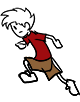
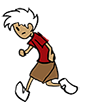
Jumping Player 90% completo

Changed region(s): [[0.0, 0.0588, 1.0, 1.0]]

diff --git a/WASH/src/com/brackeen/javagamebook/tilegame/ResourceManager.java b/WASH/src/com/brackeen/javagamebook/tilegame/ResourceManager.java
@@ -300,12 +300,20 @@ public class ResourceManager {
             loadImage("player6.png"),
             loadImage("player7.png"),
             loadImage("player8.png"),
+            loadImage("player9.png"),
+            loadImage("player10.png"),            
             loadImage("fly1.png"),
             loadImage("fly2.png"),
             loadImage("fly3.png"),
             loadImage("grub1.png"),
             loadImage("grub2.png"),
-            loadImage("player.png")
+            loadImage("player.png"),
+            loadImage("salto1.png"),
+            loadImage("salto2.png"),
+            loadImage("salto3.png"),
+            loadImage("salto4.png"),
+            loadImage("salto5.png"),
+            loadImage("salto6.png"),
         };
 
         images[1] = new Image[images[0].length];
@@ -321,33 +329,39 @@ public class ResourceManager {
         }
 
         // create creature animations
-        Animation[] playerAnim = new Animation[6];
-        Animation[] flyAnim = new Animation[6];
-        Animation[] grubAnim = new Animation[6];
+        Animation[] playerAnim = new Animation[8];
+        Animation[] flyAnim = new Animation[8];
+        Animation[] grubAnim = new Animation[8];
         for (int i=0; i<4; i++) {
            playerAnim[i] = createPlayerAnim(
                 images[i][0], images[i][1], images[i][2], 
                     images[i][3], images[i][4], images[i][5],
-                    images[i][6], images[i][7]);
+                    images[i][6], images[i][7], images[i][8],
+                    images[i][9]);
             flyAnim[i] = createFlyAnim(
-                images[i][8], images[i][9], images[i][10]);
+                images[i][10], images[i][11], images[i][12]);
             grubAnim[i] = createGrubAnim(
-                images[i][11], images[i][12]);
+                images[i][13], images[i][14]);
         }
-        playerAnim[4] = createPlayerStanding(images[0][13]);
-        playerAnim[5] = createPlayerStanding(images[1][13]);
-        flyAnim[4] = createPlayerStanding(images[0][8]);
-        flyAnim[5] = createPlayerStanding(images[1][8]);
-        grubAnim[4] = createPlayerStanding(images[0][11]);
-        grubAnim[5] = createPlayerStanding(images[1][11]);
+        playerAnim[4] = createPlayerStanding(images[0][15]);//standing left
+        playerAnim[5] = createPlayerStanding(images[1][15]);//standing right
+        playerAnim[6] = createPlayerJumping(images[0][16], images[0][17], 
+                images[0][18], images[0][19], images[0][20], images[0][21]);
+        playerAnim[7] = createPlayerJumping(images[1][16], images[1][17], 
+                images[1][18], images[1][19], images[1][20], images[1][21]);
+        
+        flyAnim[4] = createPlayerStanding(images[0][10]);
+        flyAnim[5] = createPlayerStanding(images[1][10]);
+        grubAnim[4] = createPlayerStanding(images[0][13]);
+        grubAnim[5] = createPlayerStanding(images[1][13]);
 
         // create creature sprites
         playerSprite = new Player(playerAnim[0], playerAnim[1],
-            playerAnim[2], playerAnim[3], playerAnim[4], playerAnim[5]);
+            playerAnim[2], playerAnim[3], playerAnim[4], playerAnim[5], playerAnim[6], playerAnim[7]);
         flySprite = new Fly(flyAnim[0], flyAnim[1],
-            flyAnim[2], flyAnim[3], flyAnim[4], flyAnim[5]);
+            flyAnim[2], flyAnim[3], flyAnim[4], flyAnim[5], flyAnim[4], flyAnim[5]);
         grubSprite = new Grub(grubAnim[0], grubAnim[1],
-            grubAnim[2], grubAnim[3], grubAnim[4], flyAnim[5]);
+            grubAnim[2], grubAnim[3], grubAnim[4], grubAnim[5], grubAnim[4], grubAnim[5]);
     }
 
     /**
@@ -362,17 +376,43 @@ public class ResourceManager {
     private Animation createPlayerAnim(Image player1,
         Image player2, Image player3, Image player4,
         Image player5, Image player6, Image player7,
-        Image player8)
+        Image player8, Image player9, Image player10)
     {
         Animation anim = new Animation();
-        anim.addFrame(player1, 150);
-        anim.addFrame(player2, 150);
-        anim.addFrame(player3, 150);
-        anim.addFrame(player4, 150);
-        anim.addFrame(player5, 150);
-        anim.addFrame(player6, 150);
-        anim.addFrame(player7, 150);
-        anim.addFrame(player8, 150);
+        anim.addFrame(player1, 80);
+        anim.addFrame(player2, 80);
+        anim.addFrame(player3, 80);
+        anim.addFrame(player4, 80);
+        anim.addFrame(player5, 80);
+        anim.addFrame(player6, 80);
+        anim.addFrame(player7, 80);
+        anim.addFrame(player8, 80);
+        anim.addFrame(player9, 80);
+        anim.addFrame(player10, 80);
+        
+        return anim;
+    }
+    
+    /**
+     * Create Player Animations
+     * 
+     * @param player1
+     * @param player2
+     * @param player3
+     * @return  Animation
+     */
+
+    private Animation createPlayerJumping(Image player1,
+        Image player2, Image player3, Image player4,
+        Image player5, Image player6)
+    {
+        Animation anim = new Animation();
+        anim.addFrame(player1, 200);
+        anim.addFrame(player2, 200);
+        anim.addFrame(player3, 200);
+        anim.addFrame(player4, 200);
+        anim.addFrame(player5, 200);
+        anim.addFrame(player6, 200);
         
         return anim;
     }
@@ -393,7 +433,7 @@ public class ResourceManager {
         
         return anim;
     }
-
+    
     /**
      * Create Fly Animation
      * 

diff --git a/WASH/src/com/brackeen/javagamebook/tilegame/sprites/Creature.java b/WASH/src/com/brackeen/javagamebook/tilegame/sprites/Creature.java
@@ -25,6 +25,8 @@ public abstract class Creature extends Sprite {
     private Animation deadRight;
     private Animation standingLeft;
     private Animation standingRight;
+    private Animation jumpingLeft;
+    private Animation jumpingRight;
     private int standing;
     private int state;
     private long stateTime;
@@ -57,9 +59,12 @@ public abstract class Creature extends Sprite {
      * @param deadRight 
      * @param standingLeft
      * @param standingRight
+     * @param jumpingLeft
+     * @param jumpingRight
      */
     public Creature(Animation left, Animation right,
-        Animation deadLeft, Animation deadRight, Animation standingLeft, Animation standingRight)
+        Animation deadLeft, Animation deadRight, Animation standingLeft, Animation standingRight,
+        Animation jumpingLeft, Animation jumpingRight)
     {
         super(right);
         this.left = left;
@@ -68,6 +73,8 @@ public abstract class Creature extends Sprite {
         this.deadRight = deadRight;
         this.standingLeft = standingLeft;
         this.standingRight = standingRight;
+        this.jumpingLeft = jumpingLeft;
+        this.jumpingRight = jumpingRight;
         state = STATE_NORMAL;
         standing = 1;
     }
@@ -86,7 +93,9 @@ public abstract class Creature extends Sprite {
                 (Animation)deadLeft.clone(),
                 (Animation)deadRight.clone(),
                 (Animation)standingLeft.clone(),
-                (Animation)standingRight.clone()
+                (Animation)standingRight.clone(),
+                (Animation)jumpingLeft.clone(),
+                (Animation)jumpingRight.clone()
             });
         }
         catch (Exception ex) {
@@ -187,11 +196,14 @@ public abstract class Creature extends Sprite {
     public void update(long elapsedTime) {
         // select the correct Animation
         Animation newAnim = anim;
-        if (getVelocityX() < 0) {
+        if(Player.onGround == false && standing == 0){
+            newAnim = jumpingLeft;
+        }else if(Player.onGround == false && standing == 1){
+            newAnim = jumpingRight;
+        }else if (getVelocityX() < 0) {
             newAnim = left;
             standing = 0;
-        }
-        else if (getVelocityX() > 0) {
+        }else if (getVelocityX() > 0) {
             newAnim = right;
             standing = 1;
         }else if (getVelocityX() == 0 && standing == 0){

diff --git a/WASH/src/com/brackeen/javagamebook/tilegame/sprites/Player.java b/WASH/src/com/brackeen/javagamebook/tilegame/sprites/Player.java
@@ -9,7 +9,7 @@ public class Player extends Creature {
 
     private static final float JUMP_SPEED = -.95f;
 
-    private boolean onGround;
+    public static boolean onGround;
     
     private boolean firing;
     private long bulletTimer;
@@ -24,9 +24,10 @@ public class Player extends Creature {
      */
     
     public Player(Animation left, Animation right,
-        Animation deadLeft, Animation deadRight, Animation standingLeft, Animation standingRight)
+        Animation deadLeft, Animation deadRight, Animation standingLeft, 
+        Animation standingRight, Animation jumpingLeft, Animation jumpingRight)
     {
-        super(left, right, deadLeft, deadRight, standingLeft, standingRight);
+        super(left, right, deadLeft, deadRight, standingLeft, standingRight, jumpingLeft, jumpingRight);
         firing = false;
         bulletTimer = System.nanoTime();
         bulletDelay = 500;

diff --git a/WASH/src/com/brackeen/javagamebook/tilegame/sprites/Grub.java b/WASH/src/com/brackeen/javagamebook/tilegame/sprites/Grub.java
@@ -15,11 +15,14 @@ public class Grub extends Creature {
      * @param deadRight 
      * @param standingLeft
      * @param standingRight
+     * @param jumpingLeft
+     * @param jumpingRight
      */
     public Grub(Animation left, Animation right,
-        Animation deadLeft, Animation deadRight, Animation standingLeft, Animation standingRight)
+        Animation deadLeft, Animation deadRight, Animation standingLeft, Animation standingRight, 
+        Animation jumpingLeft, Animation jumpingRight)
     {
-        super(left, right, deadLeft, deadRight, standingLeft, standingRight);
+        super(left, right, deadLeft, deadRight, standingLeft, standingRight, jumpingLeft, jumpingRight);
     }
 
     /**

diff --git a/WASH/src/com/brackeen/javagamebook/tilegame/sprites/Fly.java b/WASH/src/com/brackeen/javagamebook/tilegame/sprites/Fly.java
@@ -14,11 +14,14 @@ public class Fly extends Creature {
      * @param deadRight 
      * @param standingLeft
      * @param standingRight
+     * @param jumpingLeft
+     * @param jumpingRight
      */
     public Fly(Animation left, Animation right,
-        Animation deadLeft, Animation deadRight, Animation standingLeft, Animation standingRight)
+        Animation deadLeft, Animation deadRight, Animation standingLeft, Animation standingRight,
+        Animation jumpingLeft, Animation jumpingRight)
     {
-        super(left, right, deadLeft, deadRight, standingLeft, standingRight);
+        super(left, right, deadLeft, deadRight, standingLeft, standingRight, jumpingLeft, jumpingRight);
     }
 
     /**
